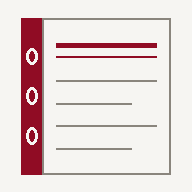
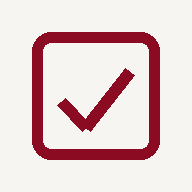
Add files via upload

Changed region(s): [[0.0938, 0.0938, 0.9062, 0.9375]]

diff --git a/workbench.html b/workbench.html
@@ -8,7 +8,7 @@
 <link rel="icon" href="./icon-192.png" sizes="192x192" type="image/png">
 <link rel="apple-touch-icon" href="./icon-192.png">
 <meta name="mobile-web-app-capable" content="yes">
-<title>Workbench 0.35.0</title>
+<title>Workbench 0.36.0</title>
 <script>
 /* Muss vor dem Rendern stehen, sonst springt das Layout beim ersten Zeichnen. */
 (function () {
@@ -948,7 +948,7 @@ body.breit .schirm{padding-left:32px;padding-right:32px}
    Grunddaten
    ============================================================ */
 
-var APP_VERSION = '0.35.0';
+var APP_VERSION = '0.36.0';
 var DATEINAME   = 'workbench.json';
 var IDB_NAME    = 'workbench-speicher';
 var IDB_STORE   = 'handles';
@@ -9364,6 +9364,14 @@ function starten() {
       zeichne();
     });
   }
+  /* Aus einer Verknüpfung am App-Symbol kommt die Adresse mit einem
+     Zusatz wie #kalender — dann öffnet die App gleich dort. */
+  var wunsch = String(window.location.hash || '').replace('#', '').toLowerCase();
+  if (wunsch === 'kalender') { zeigeSchirm('Kalender'); }
+  else if (wunsch === 'aufgaben') { zeigeSchirm('Aufgaben'); }
+  else if (wunsch === 'vorhaben') { zeigeSchirm('Vorhaben'); }
+  else if (wunsch === 'ablaeufe') { zeigeSchirm('Ablaeufe'); }
+
   document.addEventListener('visibilitychange', rueckkehrPruefen);
   window.addEventListener('focus', anmeldeStreifenPruefen);
   window.addEventListener('focus', erneuerungPruefen);

diff --git a/AA_tests.js b/AA_tests.js
@@ -1945,6 +1945,16 @@ console.log('\n20. Installierbare App und Versionswechsel');
         return String(i.purpose || '').indexOf('maskable') >= 0;
       });
       pruefe(maskierbar.length > 0, 'ein maskierbares Symbol für Android ist dabei');
+      pruefe(maskierbar.every(function (i) {
+        return (m.icons || []).some(function (j) {
+          return j.src !== i.src && String(j.purpose || '').indexOf('any') >= 0;
+        });
+      }), 'das maskierbare ist eine eigene Datei — sonst wird der Inhalt beschnitten');
+      pruefe(Array.isArray(m.shortcuts) && m.shortcuts.length >= 3,
+             'es gibt Verknüpfungen für das lange Drücken');
+      pruefe((m.shortcuts || []).every(function (s) {
+        return /workbench\.html#/.test(s.url || '');
+      }), 'jede Verknüpfung zeigt auf einen Bildschirm');
       (m.icons || []).forEach(function (i) {
         const p = require('path').join(pfad, String(i.src).replace('./', ''));
         pruefe(fs.existsSync(p), 'Symboldatei ' + i.src + ' liegt vor');
